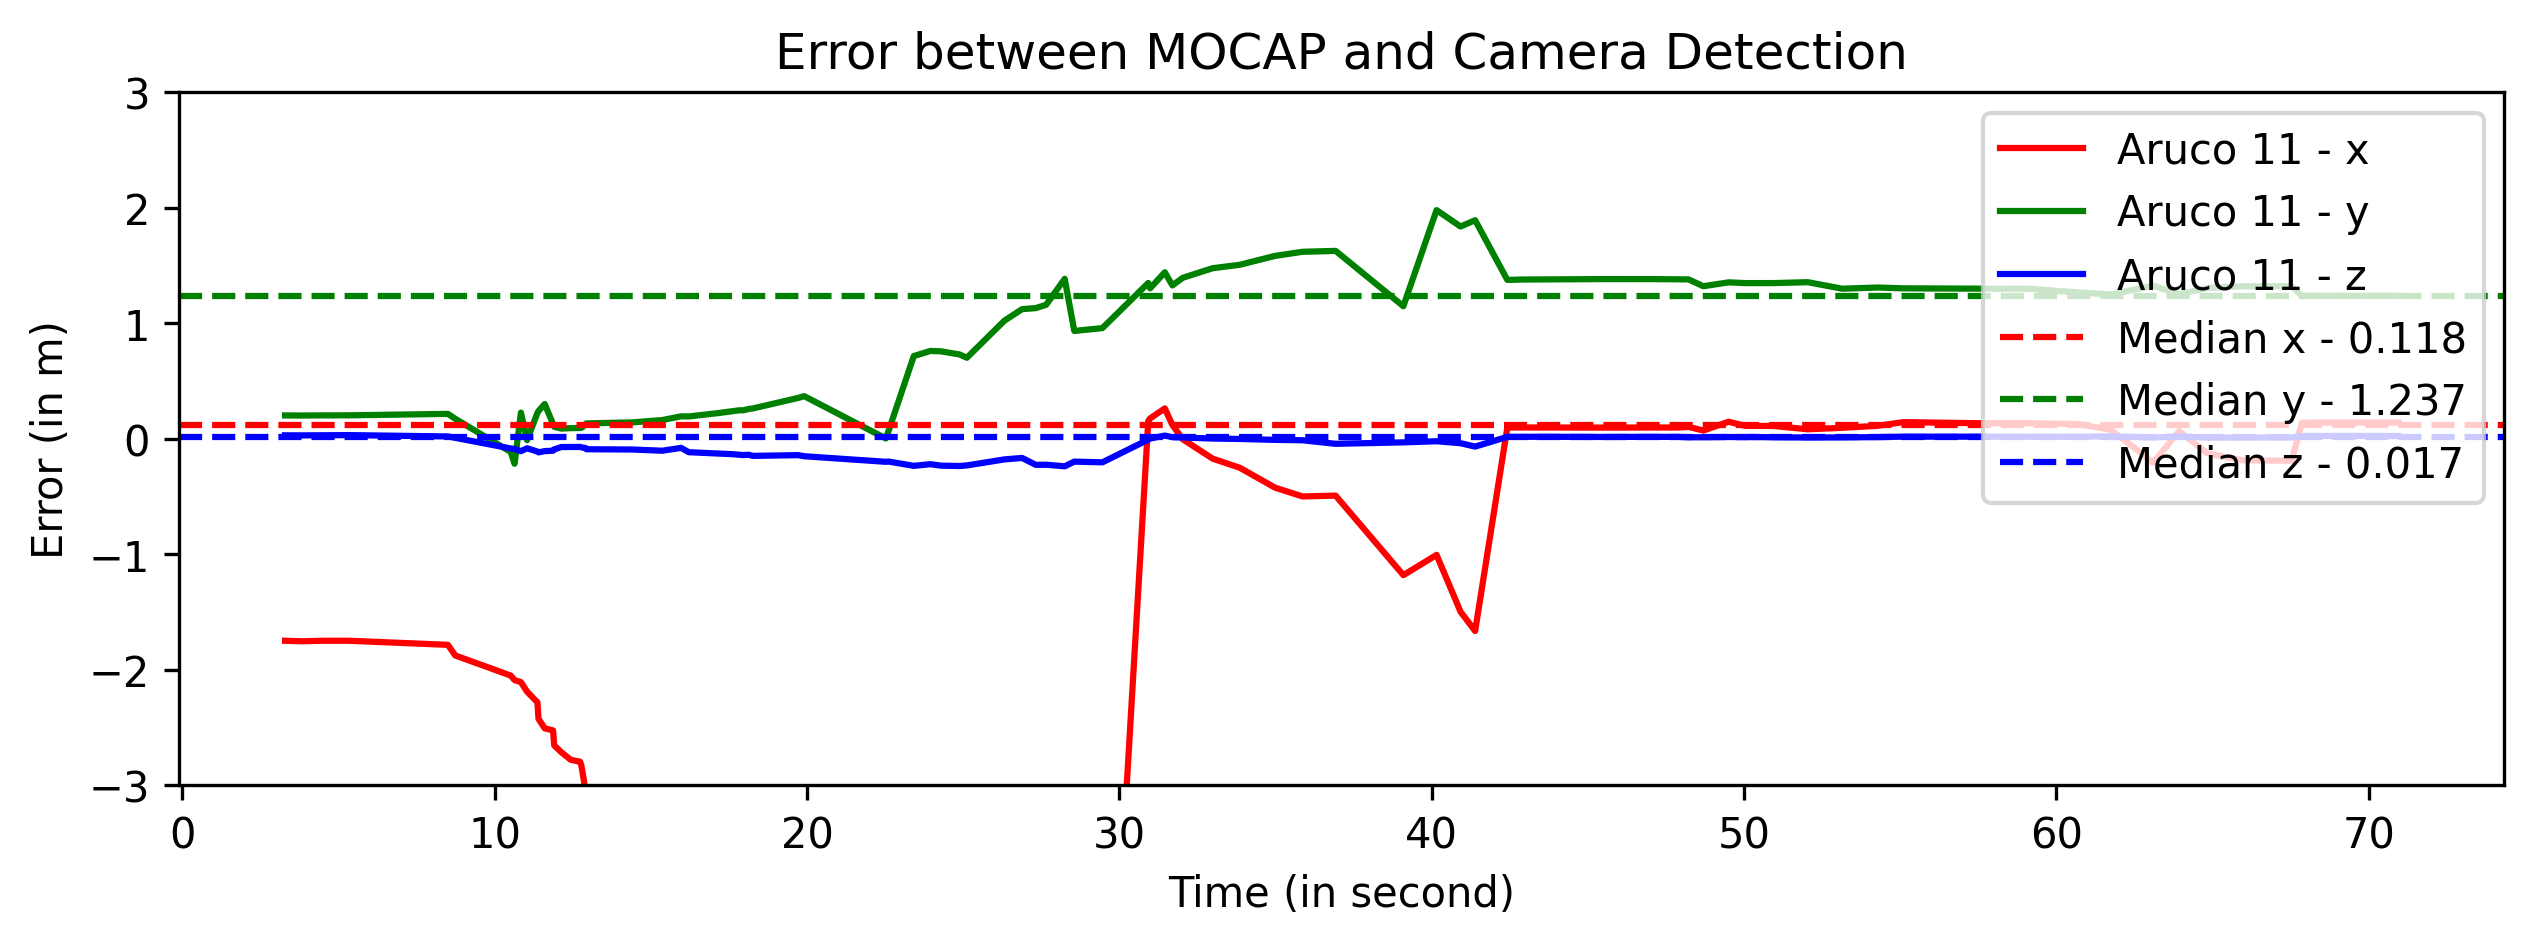
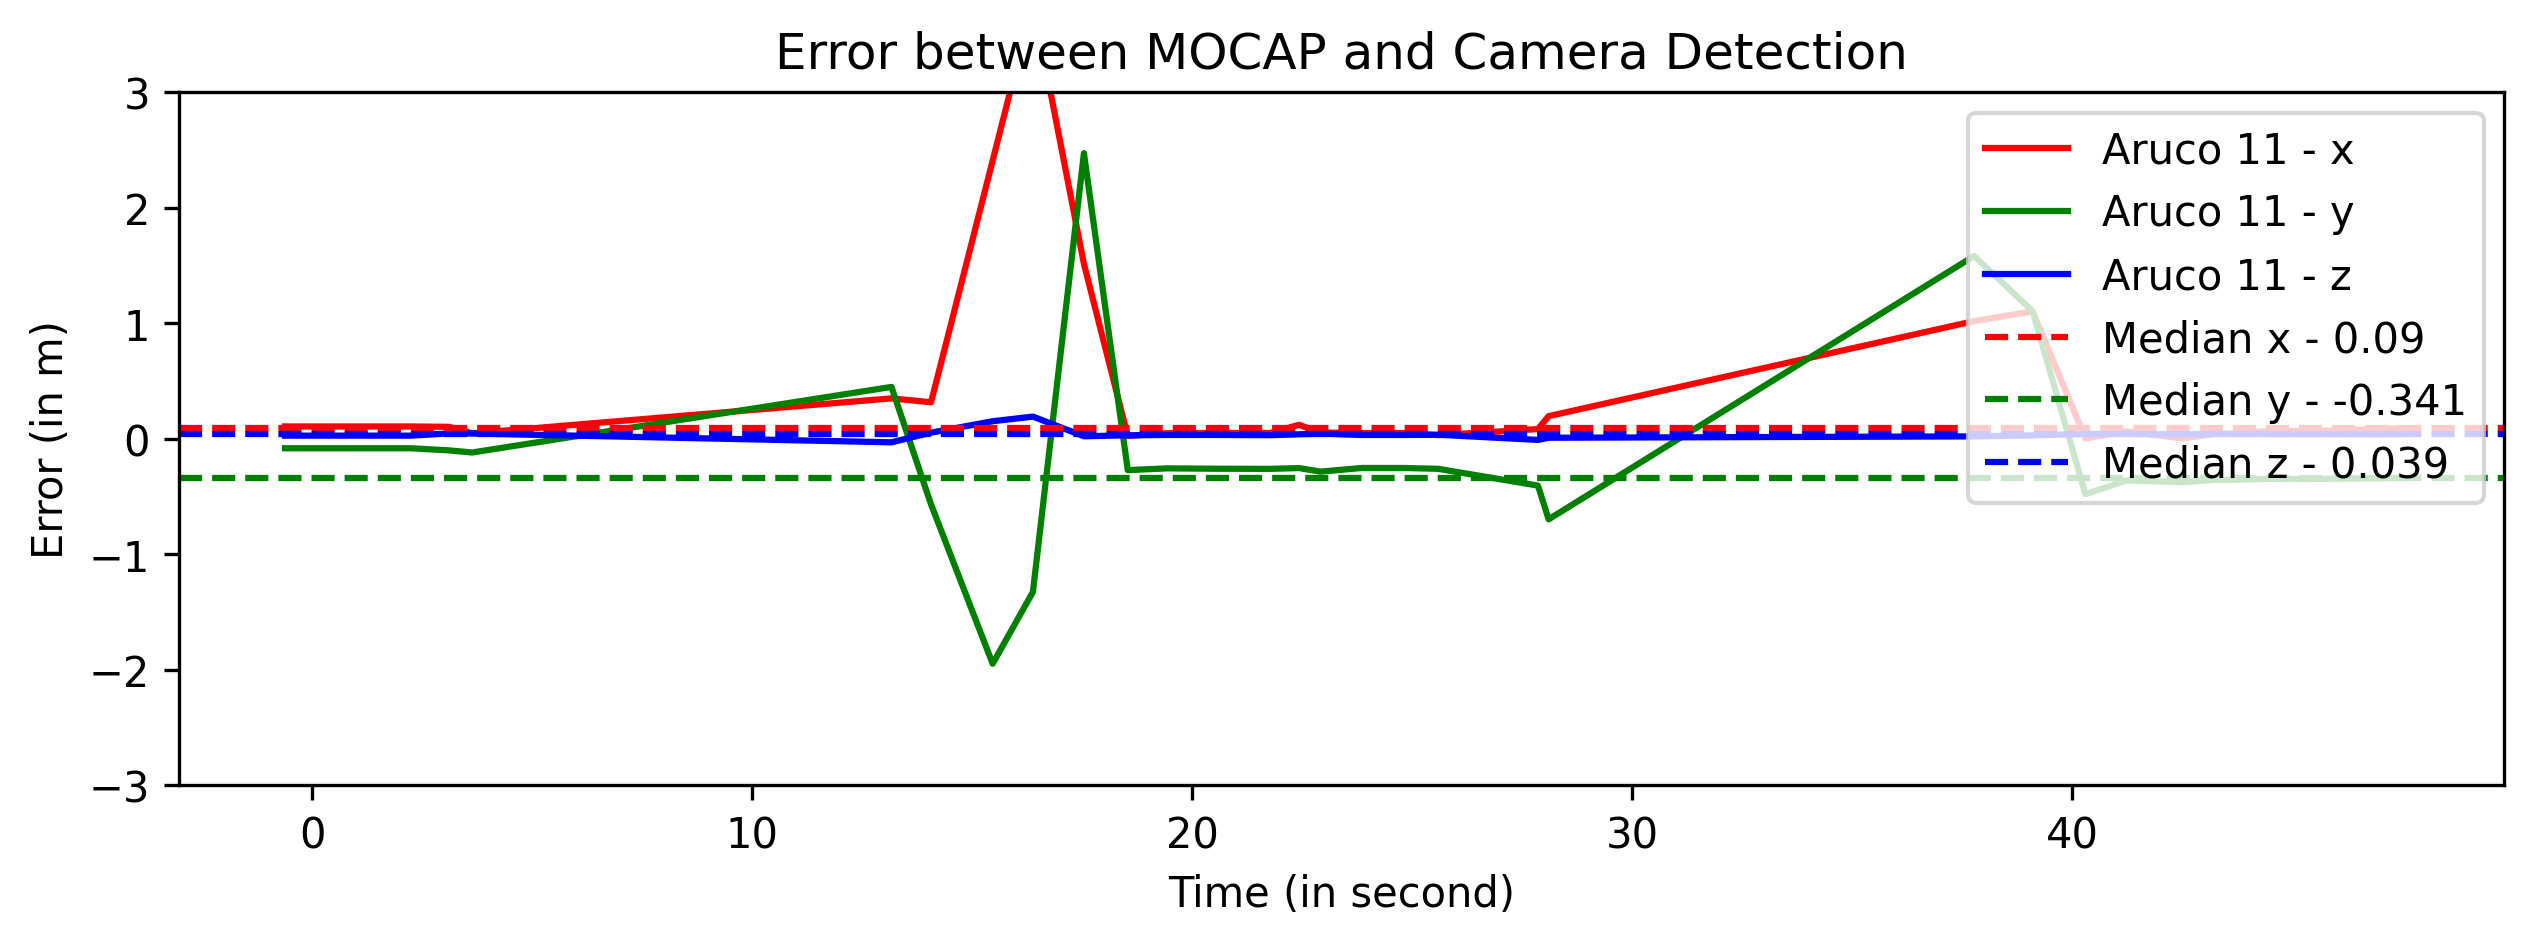
added plots

diff --git a/src/svea_sensors/scripts/Analysis.py b/src/svea_sensors/scripts/Analysis.py
@@ -13,8 +13,8 @@ import os
 
 from nav_msgs.msg import Odometry
 
-BAGNUMBER = 5
-SAVEPLOT = False
+BAGNUMBER = 9
+SAVEPLOT = True
 
 BagPaths = {
     1: '/home/annika/ITRL/kth_thesis/rosbag/2024-01-22/working_epnp_with_EKF.bag',
